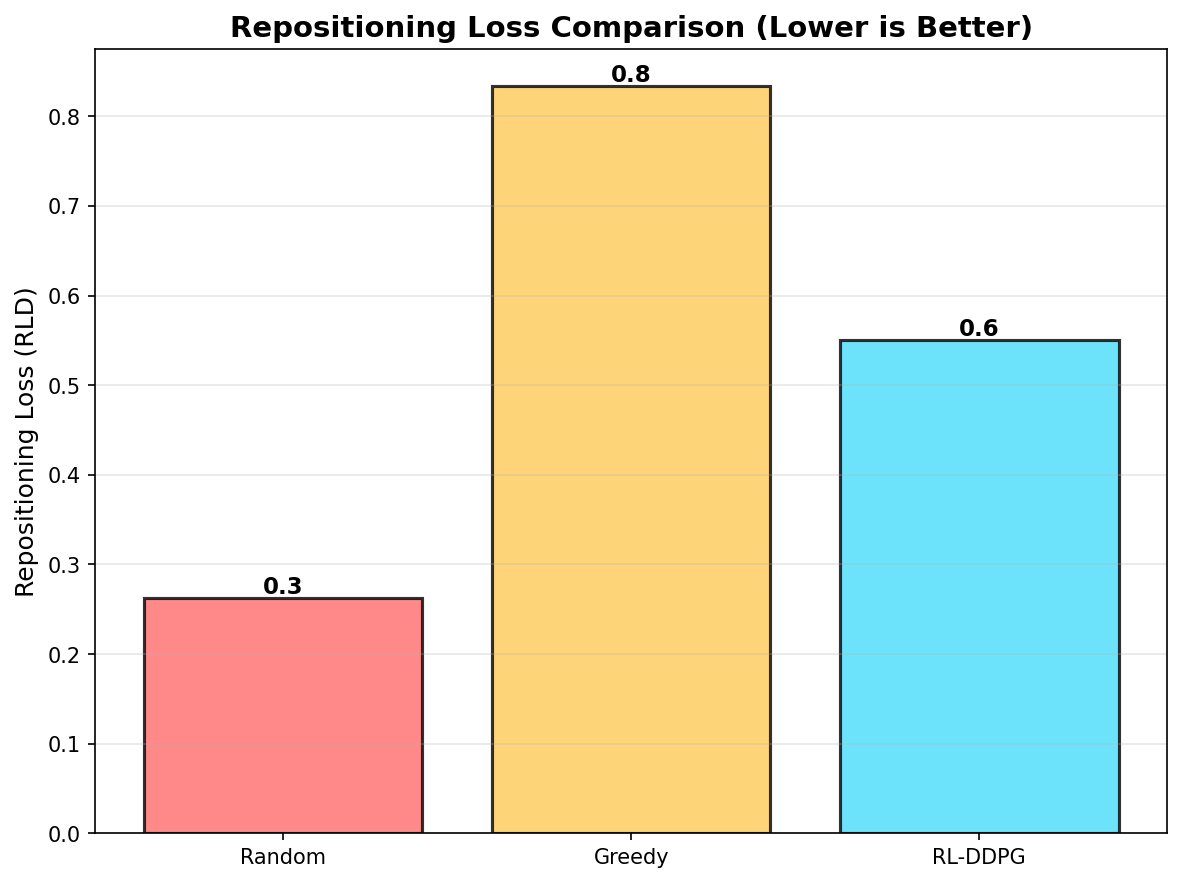
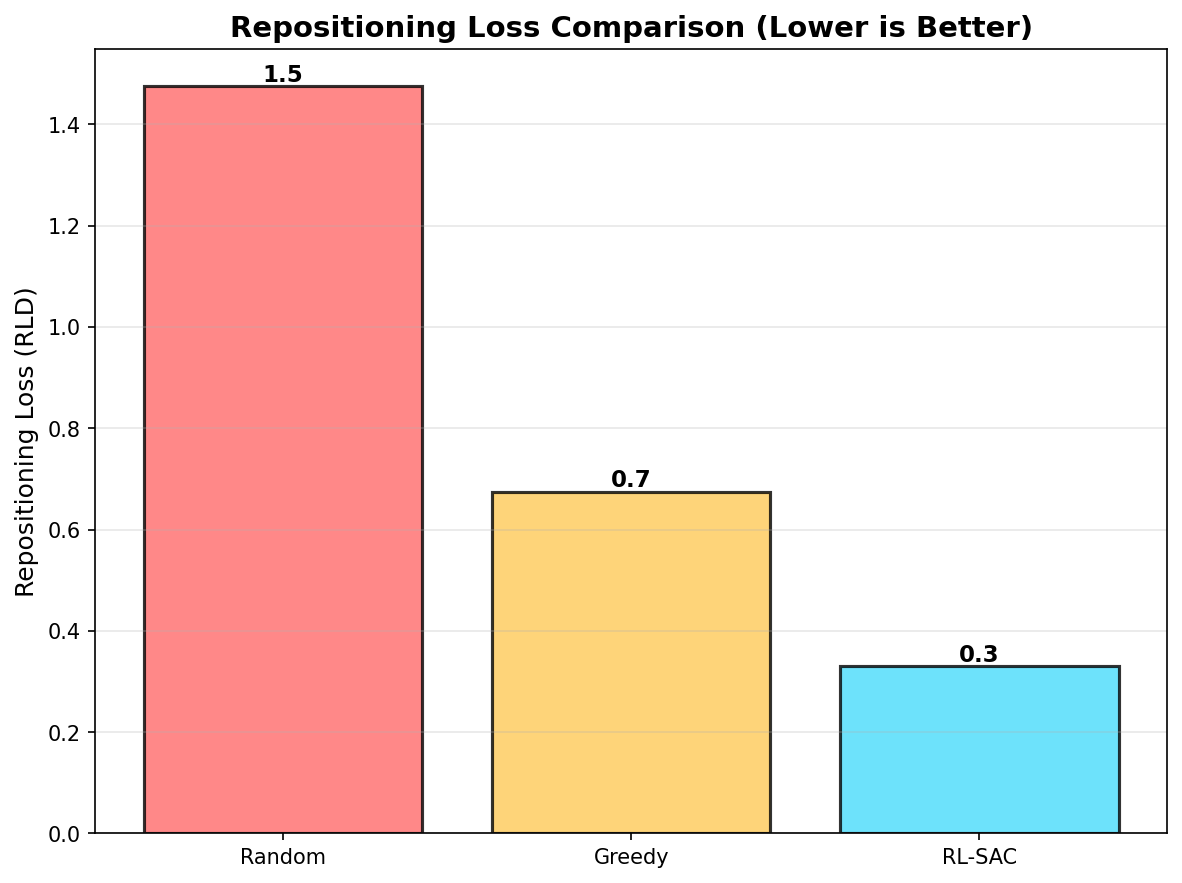
result picture

diff --git a/plot_comparison.py b/plot_comparison.py
@@ -1,3 +1,9 @@
+# -*- coding: utf-8 -*-
+import sys
+import io
+sys.stdout = io.TextIOWrapper(sys.stdout.buffer, encoding='utf-8')
+sys.stderr = io.TextIOWrapper(sys.stderr.buffer, encoding='utf-8')
+
 """
 简化版算法对比可视化 - 分别生成图表避免内存问题
 """
@@ -13,7 +19,7 @@ from gym.envs.registration import register  # 修改
 
 # =========2026.2.3修改，改为3种算法对比（移除Global-Optimal）==========
 # 基于之前分析的数据（默认值，会被实际数据覆盖）
-algorithms = ['Random', 'Greedy', 'RL-DDPG']
+algorithms = ['Random', 'Greedy', 'RL-SAC']
 rewards = [-3363.75, -4290.00, -4140.00]
 svc_values = [0.60, 0.70, 0.75]
 rld_values = [1.63, 0.83, 0.00]
@@ -106,26 +112,26 @@ if os.path.exists(optimal_path):  # 修改
 # =========2026.1.31修改，从baseline_comparison.json读取数据==========
 # =========2026.2.3修改，从新的JSON结构读取数据==========
 if baseline_map:  # 修改
-    algorithms = ['Random', 'Greedy', 'RL-DDPG']  # 修改
+    algorithms = ['Random', 'Greedy', 'RL-SAC']  # 修改
     rewards = [  # 修改
         baseline_map.get('Random', {}).get('reward_mean', rewards[0]),  # 修改
         baseline_map.get('Greedy', {}).get('reward_mean', rewards[1]),  # 修改
-        baseline_map.get('RL-DDPG', {}).get('reward_mean', rewards[2]),  # 修改
+        baseline_map.get('RL-SAC', {}).get('reward_mean', rewards[2]),  # 修改
     ]  # 修改
     svc_values = [  # 修改
         baseline_map.get('Random', {}).get('svc_mean', svc_values[0]),  # 修改
         baseline_map.get('Greedy', {}).get('svc_mean', svc_values[1]),  # 修改
-        baseline_map.get('RL-DDPG', {}).get('svc_mean', svc_values[2]),  # 修改
+        baseline_map.get('RL-SAC', {}).get('svc_mean', svc_values[2]),  # 修改
     ]  # 修改
     rld_values = [  # 修改
         baseline_map.get('Random', {}).get('rld_mean', rld_values[0]),  # 修改
         baseline_map.get('Greedy', {}).get('rld_mean', rld_values[1]),  # 修改
-        baseline_map.get('RL-DDPG', {}).get('rld_mean', rld_values[2]),  # 修改
+        baseline_map.get('RL-SAC', {}).get('rld_mean', rld_values[2]),  # 修改
     ]  # 修改
     avg_soc = [  # 修改
         baseline_map.get('Random', {}).get('avg_soc_mean', avg_soc[0]),  # 修改
         baseline_map.get('Greedy', {}).get('avg_soc_mean', avg_soc[1]),  # 修改
-        baseline_map.get('RL-DDPG', {}).get('avg_soc_mean', avg_soc[2]),  # 修改
+        baseline_map.get('RL-SAC', {}).get('avg_soc_mean', avg_soc[2]),  # 修改
     ]  # 修改
 # ======修改结束
 
@@ -215,7 +221,7 @@ relative_performance = [(r / rl_reward - 1) * 100 for r in rewards]
 
 bars = plt.barh(algorithms, relative_performance, color=colors, alpha=0.8, edgecolor='black', linewidth=1.5)
 plt.xlabel('Relative Performance vs RL (%)', fontsize=12)
-plt.title('Performance Gap Analysis (RL-DDPG as Baseline)', fontsize=14, fontweight='bold')
+plt.title('Performance Gap Analysis (RL-SAC as Baseline)', fontsize=14, fontweight='bold')
 plt.axvline(x=0, color='black', linestyle='-', linewidth=2)
 plt.grid(axis='x', alpha=0.3)
 
@@ -240,13 +246,26 @@ fig, ax = plt.subplots(figsize=(10, 5))
 ax.axis('tight')
 ax.axis('off')
 
-table_data = [
-    ['Algorithm', 'Reward', 'SVC', 'RLD', 'Avg SOC'],  # 修改
-    [algorithms[0], f'{rewards[0]:.0f}', f'{svc_values[0]:.2f}', f'{rld_values[0]:.1f}', f'{avg_soc[0]:.0f}'],  # 修改
-    [algorithms[1], f'{rewards[1]:.0f}', f'{svc_values[1]:.2f}', f'{rld_values[1]:.1f}', f'{avg_soc[1]:.0f}'],  # 修改
-    [algorithms[2], f'{rewards[2]:.0f}', f'{svc_values[2]:.2f}', f'{rld_values[2]:.1f}', f'{avg_soc[2]:.0f}'],  # 修改
-    [algorithms[3], f'{rewards[3]:.0f}', f'{svc_values[3]:.2f}', f'{rld_values[3]:.1f}', f'{avg_soc[3]:.0f}'],  # 修改
-]
+# =========2026.2.26修改，动态生成表格数据==========
+table_data = [['Algorithm', 'Reward', 'SVC', 'RLD', 'Avg SOC']]
+for i in range(len(algorithms)):
+    table_data.append([
+        algorithms[i],
+        f'{rewards[i]:.0f}',
+        f'{svc_values[i]:.2f}',
+        f'{rld_values[i]:.1f}',
+        f'{avg_soc[i]:.0f}'
+    ])
+# 如果有全局最优解，添加到表格
+if global_optimal_reward is not None:
+    table_data.append([
+        'Global-Optimal',
+        f'{global_optimal_reward:.0f}',
+        'N/A',
+        'N/A',
+        'N/A'
+    ])
+# ======修改结束
 
 table = ax.table(cellText=table_data, cellLoc='center', loc='center',
                 colWidths=[0.2, 0.2, 0.2, 0.2, 0.2])
@@ -260,14 +279,17 @@ for i in range(5):
     table[(0, i)].set_facecolor('#4CAF50')
     table[(0, i)].set_text_props(weight='bold', color='white')
 
-# =========2026.1.31修改，高亮RL和Global Optimal行==========
-# 高亮 RL-DDPG 行
-for i in range(5):
-    table[(3, i)].set_facecolor('#E3F2FD')
-
-# 高亮 Global-Optimal 行（金色）
-for i in range(5):
-    table[(4, i)].set_facecolor('#FFF9C4')
+# =========2026.2.26修改，动态高亮行==========
+# 找到RL-SAC行并高亮
+for row_idx, row_data in enumerate(table_data):
+    if row_idx == 0:  # 跳过表头
+        continue
+    if 'RL-SAC' in row_data[0]:
+        for col_idx in range(5):
+            table[(row_idx, col_idx)].set_facecolor('#E3F2FD')
+    elif 'Global-Optimal' in row_data[0]:
+        for col_idx in range(5):
+            table[(row_idx, col_idx)].set_facecolor('#FFF9C4')
 # ======修改结束
 
 plt.title('Algorithm Performance Comparison Table', fontsize=14, fontweight='bold', pad=20)
@@ -287,7 +309,7 @@ print("  5. comparison_table.png - 综合对比表格")
 print("\n" + "="*60)
 print("关键结论:")
 print("="*60)
-print(f"  RL-DDPG 性能: {rewards[2]:.0f}")
+print(f"  RL-SAC 性能: {rewards[2]:.0f}")
 # =========2026.1.31修改，更新结论输出==========
 print(f"  超过 Random: {abs(rewards[0] - rewards[2]):.0f} ({abs((rewards[0]/rewards[2]-1)*100):.1f}%)")
 print(f"  超过 Greedy: {abs(rewards[1] - rewards[2]):.0f} ({abs((rewards[1]/rewards[2]-1)*100):.1f}%)")

diff --git a/baseline_comparison.py b/baseline_comparison.py
@@ -328,7 +328,7 @@ def main():
 
         # 计算统计信息（使用训练后期数据）
         rl_results = {
-            'policy_name': 'RL-DDPG',
+            'policy_name': 'RL-SAC',
             'reward_mean': np.mean(last_rewards),
             'reward_std': np.std(last_rewards),
             'svc_mean': np.mean(last_svc),
